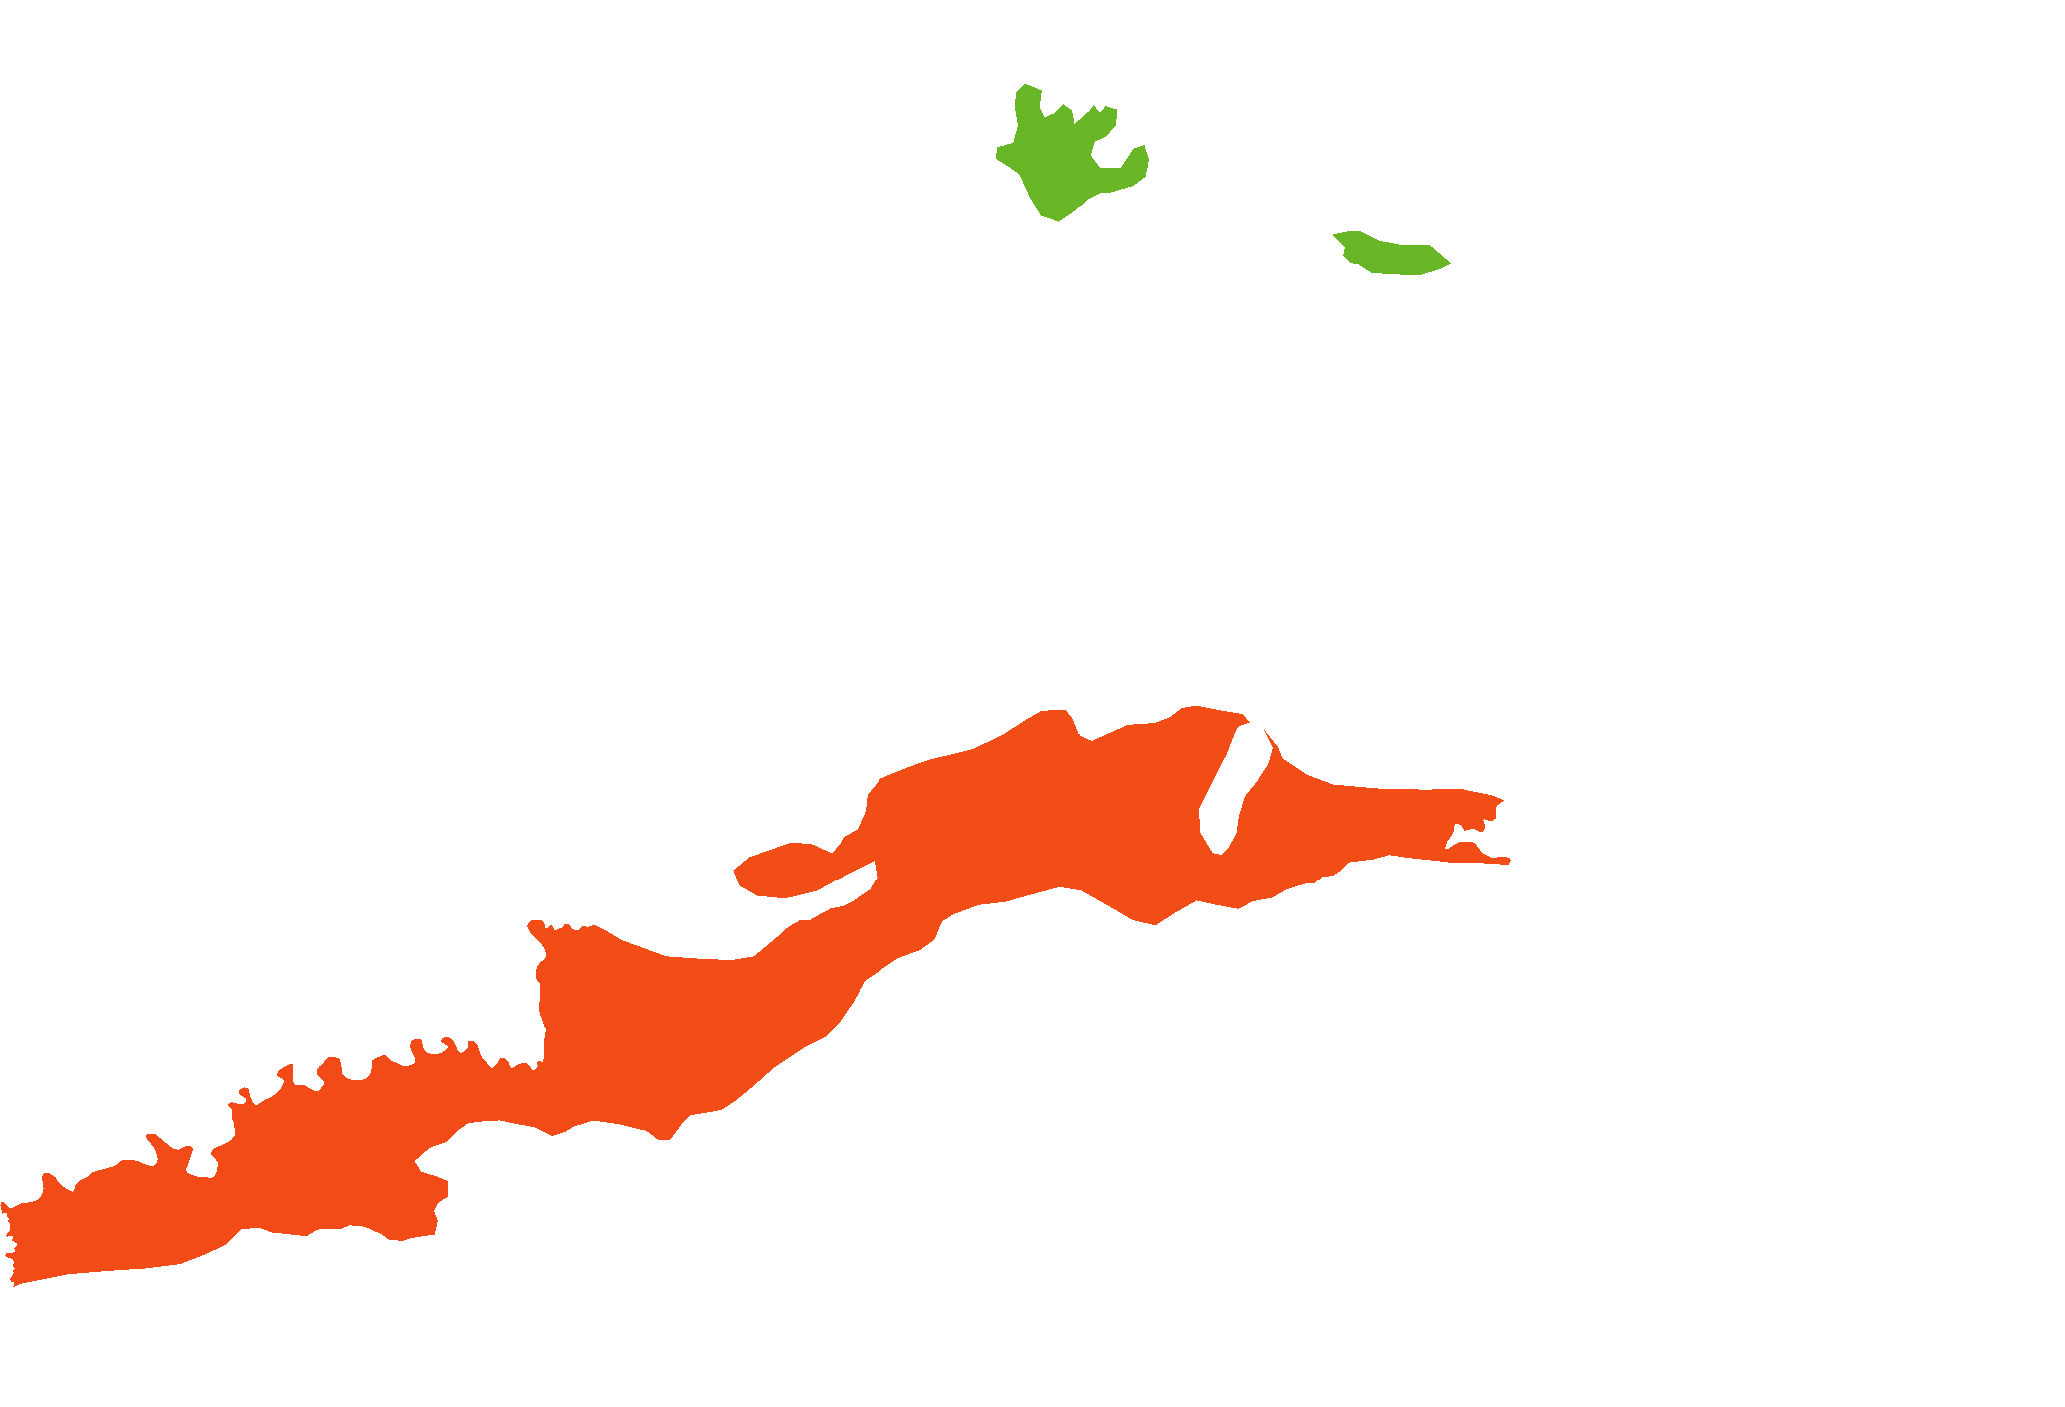
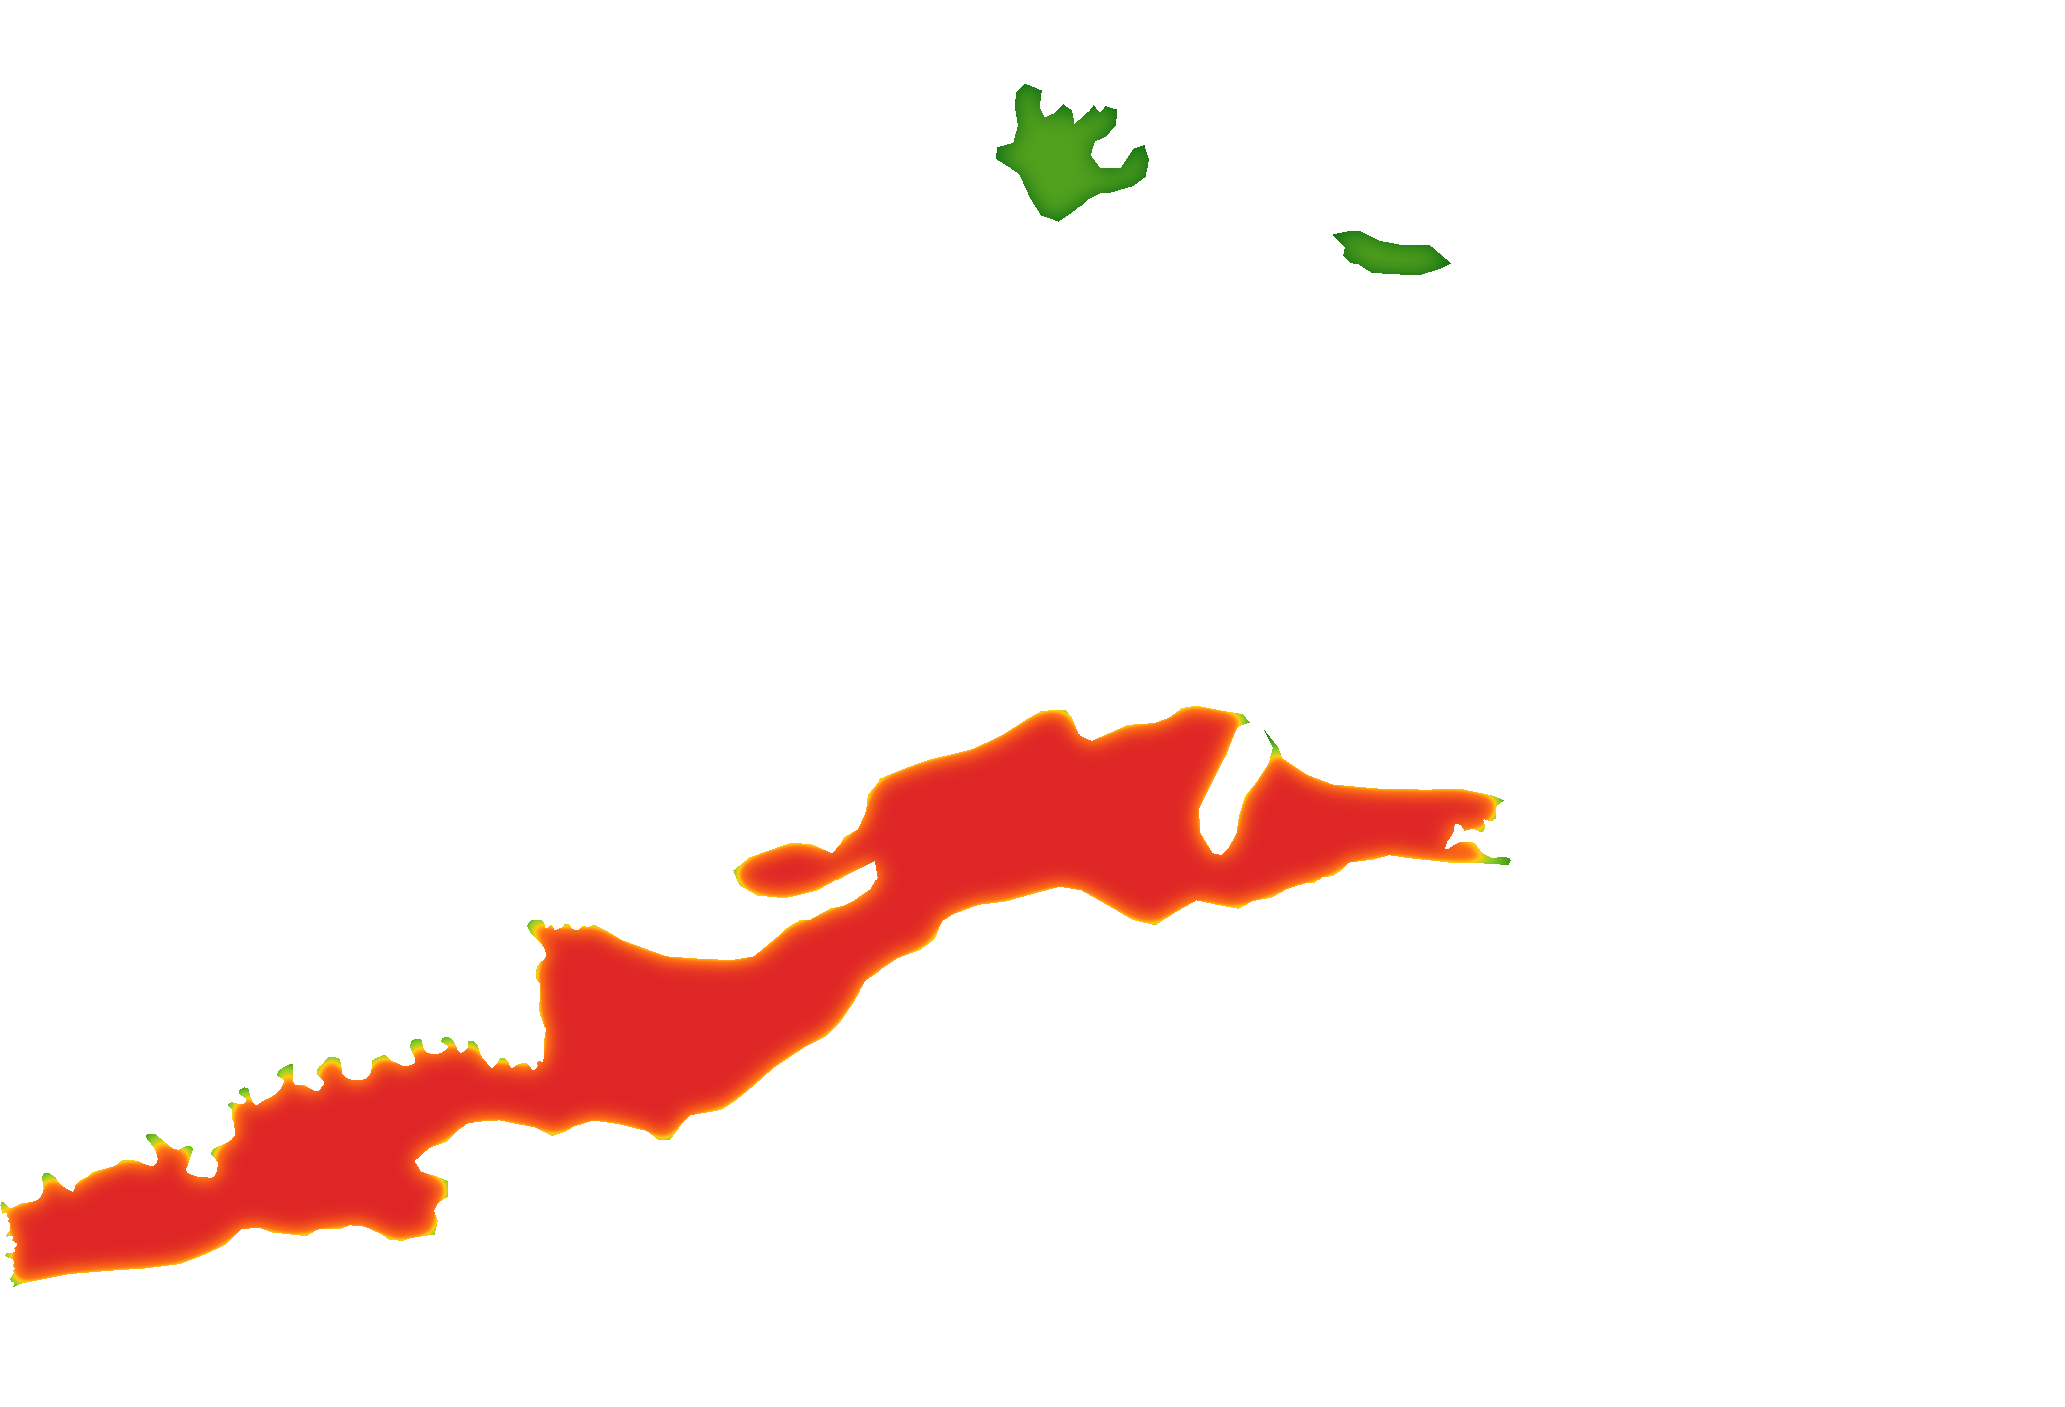
feat(raster): smooth continuous hazard index overlay using 2D bilinear interpolation and smooth image rendering CSS

Changed region(s): [[0.0, 0.489, 0.7438, 0.9168], [0.4649, 0.0611, 0.5579, 0.1528], [0.6508, 0.1528, 0.7128, 0.2139]]

diff --git a/src/components/MapContainer.tsx b/src/components/MapContainer.tsx
@@ -581,7 +581,13 @@ export const MapContainer: React.FC<MapContainerProps> = ({
     const overlay = L.imageOverlay(overlayUrl, bounds, {
       opacity: opacity,
       interactive: false,
+      className: 'smooth-raster-overlay',
     }).addTo(map);
+
+    const imgEl = overlay.getElement();
+    if (imgEl) {
+      imgEl.style.imageRendering = 'auto';
+    }
 
     rasterCanvasOverlayRef.current = overlay;
   }, [selectedHazard, opacity, showHazardLayer, hazardRenderMode]);

diff --git a/src/index.css b/src/index.css
@@ -39,6 +39,13 @@
   z-index: 10;
 }
 
+/* Smooth Bilinear Interpolation for Hazard Rasters */
+.smooth-raster-overlay {
+  image-rendering: auto !important;
+  image-rendering: smooth !important;
+  image-rendering: -webkit-optimize-contrast !important;
+}
+
 .leaflet-control-zoom {
   border: 1px solid #e2e8f0 !important;
   border-radius: 10px !important;
